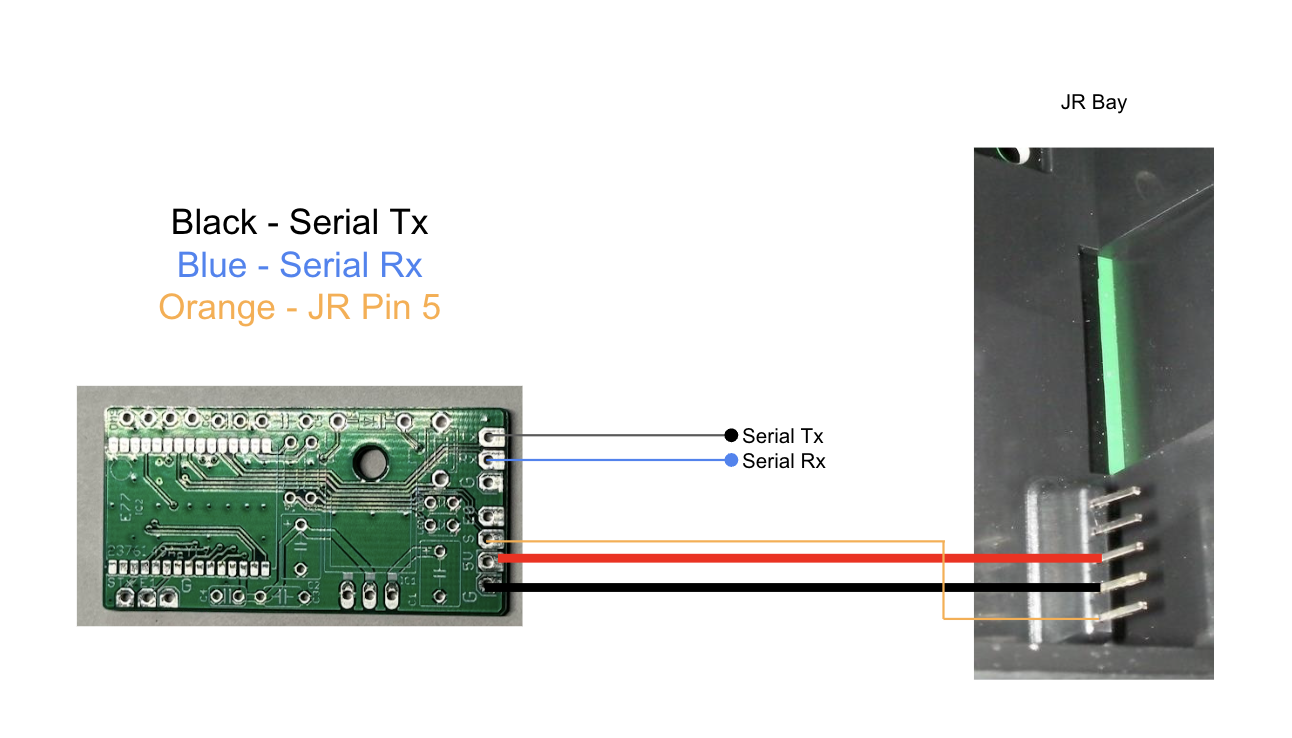
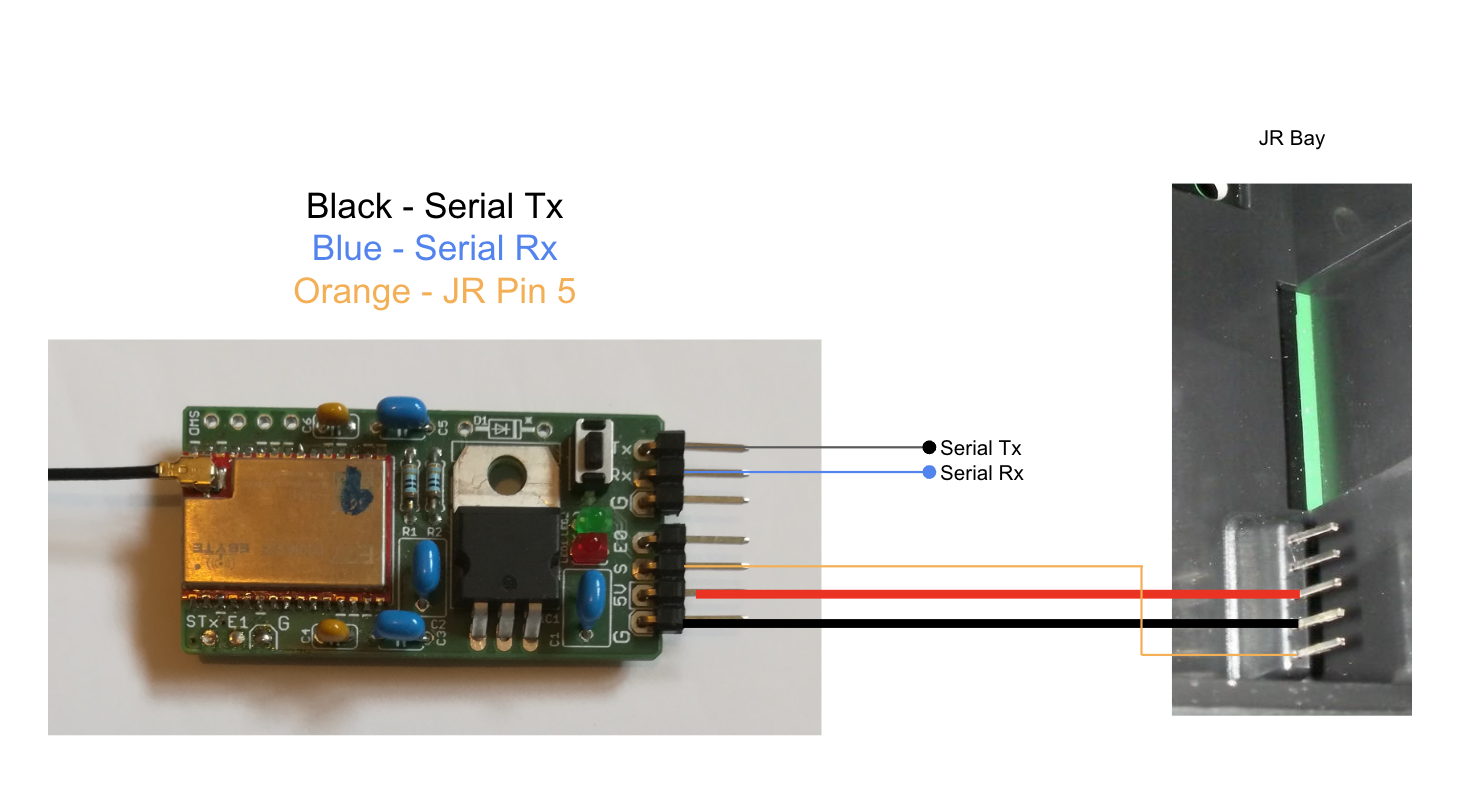
Better photo, updated description

diff --git a/docs/E77_EASYSOLDER.md b/docs/E77_EASYSOLDER.md
@@ -2,7 +2,7 @@
 
 ([back to main page](../README.md))
 
-The E77 Easy Solder Boards are designed to be an allow one with minimal soldering skills to build their own mLRS hardware.  All of the parts except for the E77 module are through-hole parts to aid in assembly.  These boards also offer diversity when paired with an additional E22 module.
+The E77 Easy Solder Boards are designed to be an allow one with minimal soldering skills to build their own mLRS hardware. All of the parts except for the E77 module are through-hole parts to aid in assembly.  These boards are flexible in that they can be used as a Tx module, Rx module or a SiK replacement. Additionally, these boards support diversity when paired with an additional E22 module.
 
 <table>
   <tbody>
